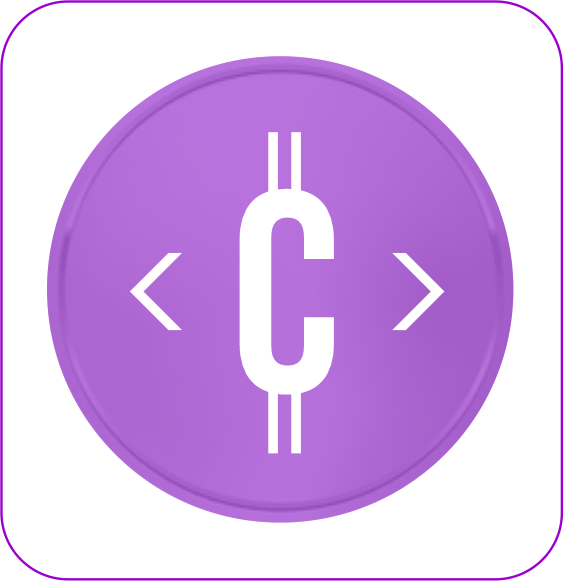
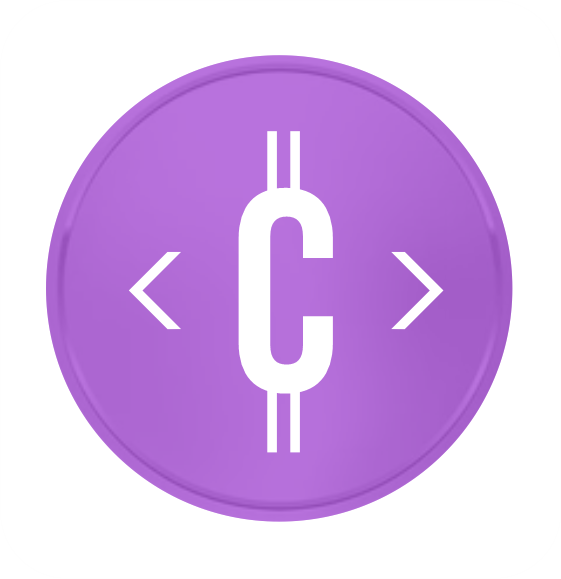
ícone sem borda
ícone da codi cash sem a borda

diff --git a/components/IMG/animação da logo.html b/components/IMG/animação da logo.html
@@ -2,7 +2,7 @@
 <html lang="pt-BR">
 <head>
   <meta charset="UTF-8">
-  <title>CASH ICON</title>
+  <title>CASH completo — com margem suficiente</title>
   <style>
     body {
       background: #eee;
